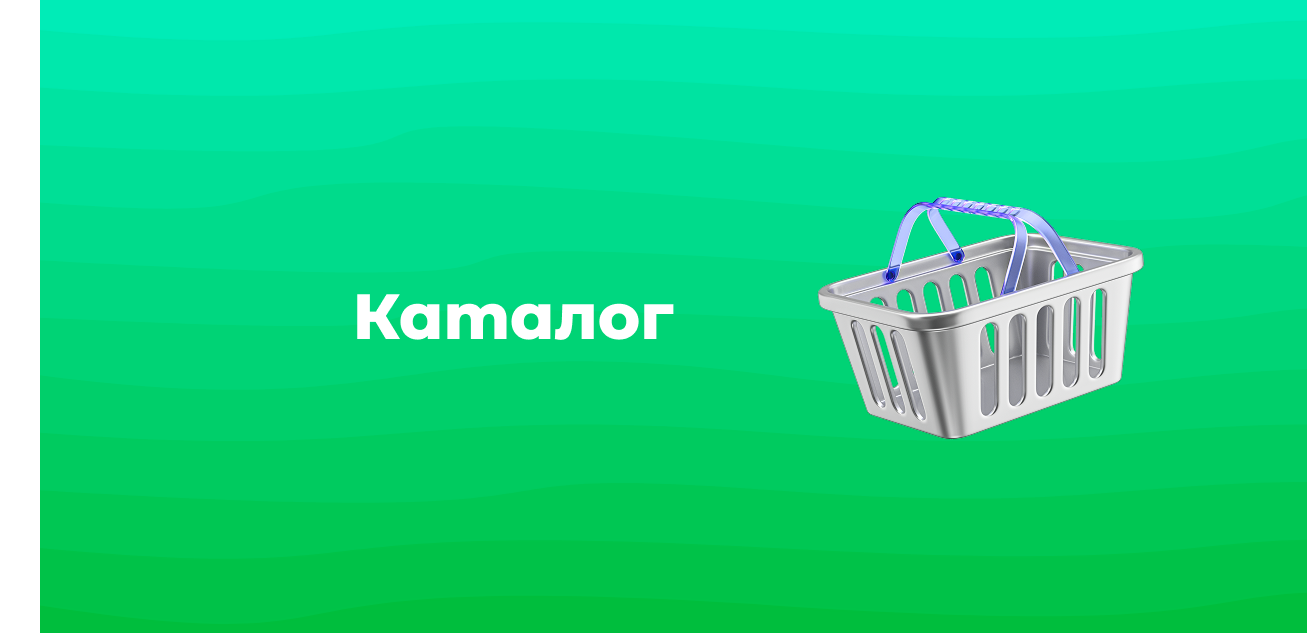
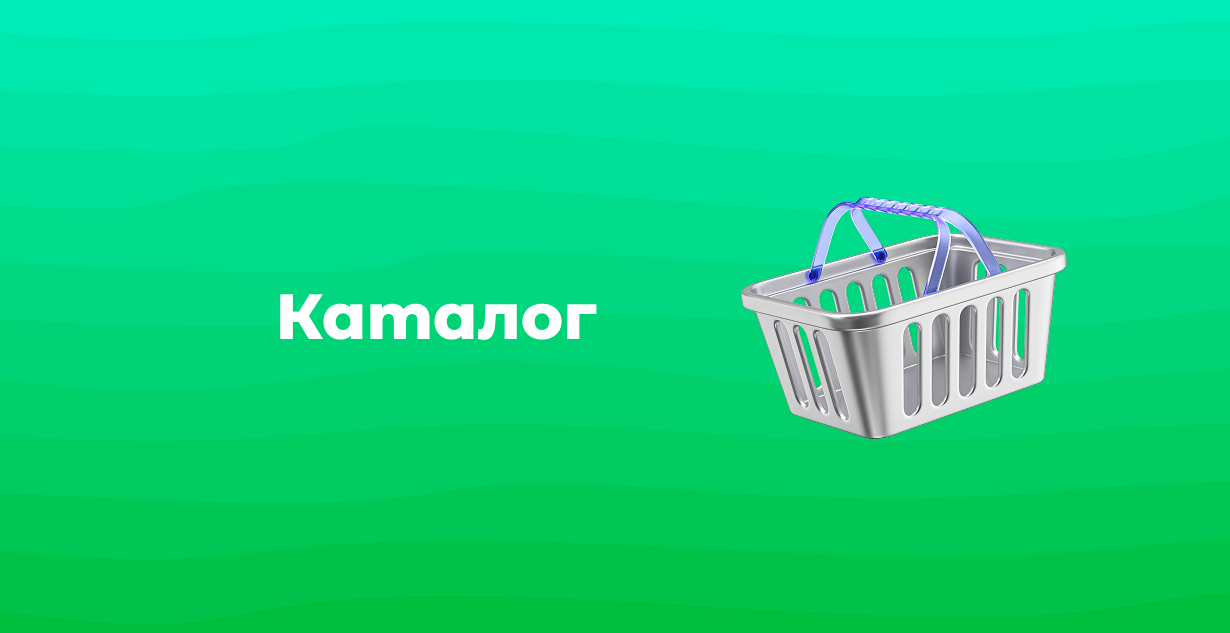
Version 1.4 Исправлен баг с неправильной обрезкой картинки во вкладке Каталога, добавлена инструкция по переходу в каталог

Changed region(s): [[0.587, 0.3002, 0.8959, 0.6904], [0.0, 0.0, 0.0309, 1.0], [0.2163, 0.4502, 0.5252, 0.5403]]

diff --git a/bot.py b/bot.py
@@ -27,7 +27,7 @@ def start(message):
         "<b>💻 Добро пожаловать!</b>\n\n"
         "Выберите действие:\n\n"
         "<i>Используйте кнопки ниже для навигации.</i> \n\n"
-        "<i>Аренда номеров уже стала проще благодаря Waba, не теряйте драгоценное время ради лишения своих профитов.</i>\n\n"
+        "<i>Аренда номеров уже стала проще благодаря Waba, не теряйте драгоценное время ради лишения своих профитов.\n\nВведите /list для отображения каталога</i>\n\n"
     )
 
     # Создаем инлайн клавиатуру
